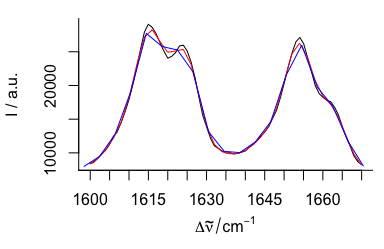
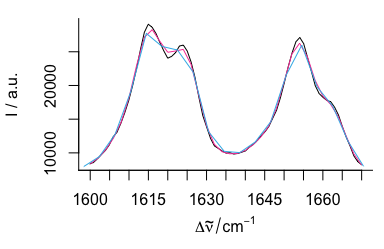
Built site for hyperSpec: 0.99-20200615@0fd74fa

diff --git a/vig/articles/hyperSpec.html b/vig/articles/hyperSpec.html
@@ -498,7 +498,8 @@ To modify a <code>hyperSpec</code> object, the corresponding functions are <code
 <p>The extraction function <code>[]</code> takes the spectra (rows) as the first argument (For detailed help: see <code class="sourceCode r">?<span class="st">"["</span></code>).
 It may be a vector giving the indices of the spectra to extract (select), a vector with negative indices indicating, which spectra should be deleted, or a vector of logical values.</p>
 <div class="sourceCode" id="cb7"><pre class="downlit">
-<span class="fu"><a href="../reference/plot-methods.html">plot</a></span>(<span class="kw">flu</span>, col = <span class="st">"green2"</span>)
+<span class="fu"><a href="https://rdrr.io/r/utils/data.html">data</a></span>(<span class="kw">CB7</span>) <span class="co"># load colorblind-friendly palette</span>
+<span class="fu"><a href="../reference/plot-methods.html">plot</a></span>(<span class="kw">flu</span>, col = <span class="kw">CB7</span>[<span class="fl">4</span>])
 <span class="fu"><a href="../reference/plot-methods.html">plot</a></span>(<span class="kw">flu</span>[<span class="fl">1</span><span class="op">:</span><span class="fl">3</span>], add = <span class="fl">TRUE</span>)
 </pre></div>
 <div class="figure" style="text-align: center">
@@ -508,7 +509,7 @@ Figure 3.1: An example with <code>[]</code> operator and positive indices.
 </p>
 </div>
 <div class="sourceCode" id="cb8"><pre class="downlit">
-<span class="fu"><a href="../reference/plot-methods.html">plot</a></span>(<span class="kw">flu</span>, col = <span class="st">"red"</span>)
+<span class="fu"><a href="../reference/plot-methods.html">plot</a></span>(<span class="kw">flu</span>, col = <span class="kw">CB7</span>[<span class="fl">4</span>])
 <span class="fu"><a href="../reference/plot-methods.html">plot</a></span>(<span class="kw">flu</span>[<span class="op">-</span><span class="fl">3</span>], add = <span class="fl">TRUE</span>)
 </pre></div>
 <div class="figure" style="text-align: center">
@@ -518,7 +519,7 @@ Figure 3.2: An example with <code>[]</code> operator and negative indices.
 </p>
 </div>
 <div class="sourceCode" id="cb9"><pre class="downlit">
-<span class="fu"><a href="../reference/plot-methods.html">plot</a></span>(<span class="kw">flu</span>, col = <span class="st">"gold"</span>)
+<span class="fu"><a href="../reference/plot-methods.html">plot</a></span>(<span class="kw">flu</span>, col = <span class="kw">CB7</span>[<span class="fl">4</span>])
 <span class="fu"><a href="../reference/plot-methods.html">plot</a></span>(<span class="kw">flu</span>[<span class="kw">flu</span><span class="op">$</span><span class="kw">c</span> <span class="op">&gt;</span> <span class="fl">0.2</span>], add = <span class="fl">TRUE</span>)
 </pre></div>
 <div class="figure" style="text-align: center">
@@ -1042,7 +1043,7 @@ Mean spectra and pooled covariance matrix can be calculated using <code class="s
 <span class="kw">rnd</span> <span class="op">&lt;-</span> <span class="fu"><a href="../reference/rmmvnorm.html">rmmvnorm</a></span>(<span class="fu"><a href="https://rdrr.io/r/base/rep.html">rep</a></span>(<span class="fl">10</span>, <span class="fl">3</span>), mean = <span class="kw">pcov</span><span class="op">$</span><span class="kw">mean</span>, sigma = <span class="kw">pcov</span><span class="op">$</span><span class="kw">COV</span>)
 </pre></div>
 <div class="sourceCode" id="cb54"><pre class="downlit">
-<span class="kw">cluster.cols</span> <span class="op">&lt;-</span> <span class="fu"><a href="https://rdrr.io/r/base/c.html">c</a></span>(<span class="st">"dark blue"</span>, <span class="st">"orange"</span>, <span class="st">"#C02020"</span>)
+<span class="kw">cluster.cols</span> <span class="op">&lt;-</span> <span class="kw">CB7</span>[<span class="fu"><a href="https://rdrr.io/r/base/c.html">c</a></span>(<span class="fl">2</span>, <span class="fl">7</span>, <span class="fl">4</span>)]
 <span class="fu"><a href="../reference/plot-methods.html">plot</a></span>(<span class="kw">rnd</span>, col = <span class="kw">cluster.cols</span>[<span class="kw">rnd</span><span class="op">$</span><span class="kw">.group</span>])
 </pre></div>
 <div class="figure" style="text-align: center">
@@ -1077,7 +1078,7 @@ Figure 4.1: Multivariate normally distributed random spectra generated with <cod
 </pre></div>
 <div class="sourceCode" id="cb56"><pre class="downlit">
 <span class="fu"><a href="../reference/plot-methods.html">plot</a></span>(<span class="kw">chondro</span>[<span class="fl">135</span>])
-<span class="fu"><a href="../reference/plot-methods.html">plot</a></span>(<span class="kw">tmp</span>[<span class="fl">135</span>, , ], add = <span class="fl">TRUE</span>, col = <span class="st">"red"</span>)
+<span class="fu"><a href="../reference/plot-methods.html">plot</a></span>(<span class="kw">tmp</span>[<span class="fl">135</span>, , ], add = <span class="fl">TRUE</span>, col = <span class="kw">CB7</span>[<span class="fl">4</span>])
 </pre></div>
 <div class="figure" style="text-align: center">
 <span id="fig:shift-wl"></span>
@@ -1102,7 +1103,7 @@ It is convenient to set it up as a function:</p>
 </pre></div>
 <div class="sourceCode" id="cb59"><pre class="downlit">
 <span class="fu"><a href="../reference/plot-methods.html">plot</a></span>(<span class="kw">chondro</span>[<span class="fl">135</span>])
-<span class="fu"><a href="../reference/plot-methods.html">plot</a></span>(<span class="kw">tmp</span>[<span class="fl">135</span>], add = <span class="fl">TRUE</span>, col = <span class="st">"red"</span>)
+<span class="fu"><a href="../reference/plot-methods.html">plot</a></span>(<span class="kw">tmp</span>[<span class="fl">135</span>], add = <span class="fl">TRUE</span>, col = <span class="kw">CB7</span>[<span class="fl">4</span>])
 </pre></div>
 <div class="figure" style="text-align: center">
 <span id="fig:shift-interp"></span>
@@ -1115,7 +1116,7 @@ Figure 5.2: Shifting the spectra along the wavelength axis: interpolation.
 <span class="kw">tmp</span> <span class="op">&lt;-</span> <span class="kw">chondro</span>[<span class="fl">135</span>, , <span class="fl">990</span> <span class="op">~</span> <span class="fl">1010</span>]
 <span class="fu"><a href="../reference/plot-methods.html">plot</a></span>(<span class="kw">tmp</span>, lines.args = <span class="fu"><a href="https://rdrr.io/r/base/list.html">list</a></span>(type = <span class="st">"b"</span>, pch = <span class="fl">19</span>, cex = <span class="fl">0.5</span>))
 <span class="fu"><a href="../reference/wl.html">wl</a></span>(<span class="kw">tmp</span>) <span class="op">&lt;-</span> <span class="fu"><a href="../reference/wl.html">wl</a></span>(<span class="kw">tmp</span>) <span class="op">-</span> <span class="fl">0.5</span>
-<span class="fu"><a href="../reference/plot-methods.html">plot</a></span>(<span class="kw">tmp</span>, lines.args = <span class="fu"><a href="https://rdrr.io/r/base/list.html">list</a></span>(type = <span class="st">"b"</span>, pch = <span class="fl">19</span>, cex = <span class="fl">0.5</span>), add = <span class="fl">TRUE</span>, col = <span class="st">"red"</span>)
+<span class="fu"><a href="../reference/plot-methods.html">plot</a></span>(<span class="kw">tmp</span>, lines.args = <span class="fu"><a href="https://rdrr.io/r/base/list.html">list</a></span>(type = <span class="st">"b"</span>, pch = <span class="fl">19</span>, cex = <span class="fl">0.5</span>), add = <span class="fl">TRUE</span>, col = <span class="kw">CB7</span>[<span class="fl">4</span>])
 
 <span class="kw">tmp</span> <span class="op">&lt;-</span> <span class="kw">chondro</span>[<span class="fl">135</span>]
 <span class="kw">tmp</span> <span class="op">&lt;-</span> <span class="fu"><a href="../reference/apply.html">apply</a></span>(<span class="kw">tmp</span>, <span class="fl">1</span>, <span class="fu">function</span>(<span class="kw">x</span>, <span class="kw">wl</span>, <span class="kw">shift</span>) {
@@ -1123,7 +1124,7 @@ Figure 5.2: Shifting the spectra along the wavelength axis: interpolation.
 },
 wl = <span class="fu"><a href="../reference/wl.html">wl</a></span>(<span class="kw">tmp</span>), shift = <span class="op">-</span><span class="fl">0.5</span>
 )
-<span class="fu"><a href="../reference/plot-methods.html">plot</a></span>(<span class="kw">tmp</span>, lines.args = <span class="fu"><a href="https://rdrr.io/r/base/list.html">list</a></span>(type = <span class="st">"b"</span>, pch = <span class="fl">19</span>, cex = <span class="fl">0.5</span>), add = <span class="fl">TRUE</span>, col = <span class="st">"blue"</span>)
+<span class="fu"><a href="../reference/plot-methods.html">plot</a></span>(<span class="kw">tmp</span>, lines.args = <span class="fu"><a href="https://rdrr.io/r/base/list.html">list</a></span>(type = <span class="st">"b"</span>, pch = <span class="fl">19</span>, cex = <span class="fl">0.5</span>), add = <span class="fl">TRUE</span>, col = <span class="kw">CB7</span>[<span class="fl">3</span>])
 </pre></div>
 <div class="figure" style="text-align: center">
 <span id="fig:shift-untsch"></span>
@@ -1246,7 +1247,7 @@ Class <code>hyperSpec</code>’s comparison operators return a logical matrix of
 <div class="sourceCode" id="cb68"><pre class="downlit">
 <span class="fu"><a href="../reference/plot-methods.html">plot</a></span>(<span class="kw">chondro</span>[<span class="op">!</span><span class="fu"><a href="../reference/apply.html">apply</a></span>(<span class="kw">OK</span>, <span class="fl">1</span>, <span class="kw">all</span>)])
 <span class="kw">i</span> <span class="op">&lt;-</span> <span class="fu"><a href="https://rdrr.io/r/base/which.html">which</a></span>(<span class="op">!</span><span class="kw">OK</span>, arr.ind = <span class="fl">TRUE</span>)
-<span class="fu"><a href="https://rdrr.io/r/graphics/points.html">points</a></span>(<span class="fu"><a href="../reference/wl.html">wl</a></span>(<span class="kw">chondro</span>)[<span class="kw">i</span>[, <span class="fl">2</span>]], <span class="kw">chondro</span>[[<span class="op">!</span><span class="kw">OK</span>]], pch = <span class="fl">19</span>, col = <span class="st">"red"</span>, cex = <span class="fl">0.5</span>)
+<span class="fu"><a href="https://rdrr.io/r/graphics/points.html">points</a></span>(<span class="fu"><a href="../reference/wl.html">wl</a></span>(<span class="kw">chondro</span>)[<span class="kw">i</span>[, <span class="fl">2</span>]], <span class="kw">chondro</span>[[<span class="op">!</span><span class="kw">OK</span>]], pch = <span class="fl">19</span>, col = <span class="kw">CB7</span>[<span class="fl">4</span>], cex = <span class="fl">0.5</span>)
 </pre></div>
 <div class="figure" style="text-align: center">
 <span id="fig:filter"></span>
@@ -1311,7 +1312,7 @@ Figure 5.5: Filtering data: mean <span class="math inline">\(\pm\)</span> sd fil
 
 <span class="kw">spc</span>[[<span class="kw">spc</span> <span class="op">&lt;</span> <span class="fl">1e-4</span>]] <span class="op">&lt;-</span> <span class="fl">NA</span>
 <span class="fu"><a href="../reference/plot-methods.html">plot</a></span>(<span class="fu"><a href="../reference/spc.NA.approx.html">spc.NA.approx</a></span>(<span class="kw">spc</span>),
-  add = <span class="fl">TRUE</span>, col = <span class="st">"blue"</span>,
+  add = <span class="fl">TRUE</span>, col = <span class="kw">CB7</span>[<span class="fl">4</span>],
   lines.args = <span class="fu"><a href="https://rdrr.io/r/base/list.html">list</a></span>(type = <span class="st">"b"</span>, pch = <span class="fl">19</span>, cex = <span class="fl">0.5</span>)
 )
 </pre></div>
@@ -1344,12 +1345,12 @@ Package <strong>hyperSpec</strong> provides two functions to do so: <code class=
 <div class="sourceCode" id="cb73"><pre class="downlit">
 <span class="fu"><a href="../reference/plot-methods.html">plot</a></span>(<span class="kw">paracetamol</span>, wl.range = <span class="fu"><a href="https://rdrr.io/r/base/c.html">c</a></span>(<span class="fl">300</span> <span class="op">~</span> <span class="fl">1800</span>, <span class="fl">2800</span> <span class="op">~</span> <span class="kw">max</span>), xoffset = <span class="fl">850</span>)
 <span class="kw">p</span> <span class="op">&lt;-</span> <span class="fu"><a href="../reference/spc.loess.html">spc.loess</a></span>(<span class="kw">paracetamol</span>, <span class="fu"><a href="https://rdrr.io/r/base/c.html">c</a></span>(<span class="fu"><a href="../reference/seq.hyperSpec.html">seq</a></span>(<span class="fl">300</span>, <span class="fl">1800</span>, <span class="fl">2</span>), <span class="fu"><a href="../reference/seq.hyperSpec.html">seq</a></span>(<span class="fl">2850</span>, <span class="fl">3150</span>, <span class="fl">2</span>)))
-<span class="fu"><a href="../reference/plot-methods.html">plot</a></span>(<span class="kw">p</span>, wl.range = <span class="fu"><a href="https://rdrr.io/r/base/c.html">c</a></span>(<span class="fl">300</span> <span class="op">~</span> <span class="fl">1800</span>, <span class="fl">2800</span> <span class="op">~</span> <span class="kw">max</span>), xoffset = <span class="fl">850</span>, col = <span class="st">"red"</span>, add = <span class="fl">TRUE</span>)
+<span class="fu"><a href="../reference/plot-methods.html">plot</a></span>(<span class="kw">p</span>, wl.range = <span class="fu"><a href="https://rdrr.io/r/base/c.html">c</a></span>(<span class="fl">300</span> <span class="op">~</span> <span class="fl">1800</span>, <span class="fl">2800</span> <span class="op">~</span> <span class="kw">max</span>), xoffset = <span class="fl">850</span>, col = <span class="kw">CB7</span>[<span class="fl">4</span>], add = <span class="fl">TRUE</span>)
 
 <span class="kw">b</span> <span class="op">&lt;-</span> <span class="fu"><a href="../reference/spc.bin.html">spc.bin</a></span>(<span class="kw">paracetamol</span>, <span class="fl">4</span>)
 <span class="fu"><a href="../reference/plot-methods.html">plot</a></span>(<span class="kw">b</span>,
   wl.range = <span class="fu"><a href="https://rdrr.io/r/base/c.html">c</a></span>(<span class="fl">300</span> <span class="op">~</span> <span class="fl">1800</span>, <span class="fl">2800</span> <span class="op">~</span> <span class="kw">max</span>), xoffset = <span class="fl">850</span>,
-  lines.args = <span class="fu"><a href="https://rdrr.io/r/base/list.html">list</a></span>(pch = <span class="fl">20</span>, cex = <span class="fl">.3</span>, type = <span class="st">"p"</span>), col = <span class="st">"blue"</span>, add = <span class="fl">TRUE</span>
+  lines.args = <span class="fu"><a href="https://rdrr.io/r/base/list.html">list</a></span>(pch = <span class="fl">20</span>, cex = <span class="fl">.3</span>, type = <span class="st">"p"</span>), col = <span class="kw">CB7</span>[<span class="fl">3</span>], add = <span class="fl">TRUE</span>
 )
 </pre></div>
 <div class="figure" style="text-align: center">
@@ -1360,8 +1361,8 @@ Figure 5.7: Smoothing interpolation by <code class="sourceCode r"><span class="k
 </div>
 <div class="sourceCode" id="cb74"><pre class="downlit">
 <span class="fu"><a href="../reference/plot-methods.html">plot</a></span>(<span class="kw">paracetamol</span>[, , <span class="fl">1600</span> <span class="op">~</span> <span class="fl">1670</span>])
-<span class="fu"><a href="../reference/plot-methods.html">plot</a></span>(<span class="kw">p</span>[, , <span class="fl">1600</span> <span class="op">~</span> <span class="fl">1670</span>], col = <span class="st">"red"</span>, add = <span class="fl">TRUE</span>)
-<span class="fu"><a href="../reference/plot-methods.html">plot</a></span>(<span class="kw">b</span>[, , <span class="fl">1600</span> <span class="op">~</span> <span class="fl">1670</span>], col = <span class="st">"blue"</span>, add = <span class="fl">TRUE</span>)
+<span class="fu"><a href="../reference/plot-methods.html">plot</a></span>(<span class="kw">p</span>[, , <span class="fl">1600</span> <span class="op">~</span> <span class="fl">1670</span>], col = <span class="kw">CB7</span>[<span class="fl">4</span>], add = <span class="fl">TRUE</span>)
+<span class="fu"><a href="../reference/plot-methods.html">plot</a></span>(<span class="kw">b</span>[, , <span class="fl">1600</span> <span class="op">~</span> <span class="fl">1670</span>], col = <span class="kw">CB7</span>[<span class="fl">3</span>], add = <span class="fl">TRUE</span>)
 </pre></div>
 <div class="figure" style="text-align: center">
 <span id="fig:loess-kl"></span>
@@ -1438,7 +1439,7 @@ The result is a <code class="sourceCode r">baseline</code> object, but can easil
 <span class="kw">baseline</span> <span class="op">&lt;-</span> <span class="kw">corrected</span>
 <span class="kw">baseline</span>[[]] <span class="op">&lt;-</span> <span class="fu"><a href="https://rdrr.io/pkg/baseline/man/getBaseline.html">getBaseline</a></span>(<span class="kw">bl</span>)
 <span class="fu"><a href="../reference/plot-methods.html">plot</a></span>(<span class="kw">hyperSpec</span>::<span class="kw"><a href="../reference/chondro.html">chondro</a></span>[<span class="fl">1</span>], plot.args = <span class="fu"><a href="https://rdrr.io/r/base/list.html">list</a></span>(ylim = <span class="fu"><a href="https://rdrr.io/r/base/range.html">range</a></span>(<span class="kw">hyperSpec</span>::<span class="kw"><a href="../reference/chondro.html">chondro</a></span>[<span class="fl">1</span>], <span class="fl">0</span>)))
-<span class="fu"><a href="../reference/plot-methods.html">plot</a></span>(<span class="kw">baseline</span>, add = <span class="fl">TRUE</span>, col = <span class="st">"red"</span>)
+<span class="fu"><a href="../reference/plot-methods.html">plot</a></span>(<span class="kw">baseline</span>, add = <span class="fl">TRUE</span>, col = <span class="kw">CB7</span>[<span class="fl">4</span>])
 </pre></div>
 <div class="figure" style="text-align: center">
 <span id="fig:bl-baseline"></span>
@@ -1728,7 +1729,7 @@ Figure 6.1: The first three loadings.
 ), space = <span class="st">"Lab"</span>)
 </pre></div>
 <div class="sourceCode" id="cb106"><pre class="downlit">
-<span class="fu"><a href="../reference/plotmap.html">plotmap</a></span>(<span class="kw">scores</span>[, , <span class="fl">3</span>], col.regions = <span class="fu">div_palette</span>(<span class="fl">20</span>))
+<span class="fu"><a href="../reference/plotmap.html">plotmap</a></span>(<span class="kw">scores</span>[, , <span class="fl">3</span>], col.regions = <span class="fu">diverging_hcl</span>(<span class="fl">20</span>, palette = <span class="st">"Blue-Red2"</span>))
 </pre></div>
 <div class="figure" style="text-align: center">
 <span id="fig:pca-score"></span>
@@ -1922,9 +1923,10 @@ To keep all spectra replacing missing parts by <code class="sourceCode r"><span 
 <span class="co">#&gt; [1] 846</span>
 </pre></div>
 <div class="sourceCode" id="cb124"><pre class="downlit">
+<span class="kw">matcols</span> <span class="op">&lt;-</span> <span class="fu">sequential_hcl</span>(<span class="fl">20</span>, palette = <span class="st">"viridis"</span>)
 <span class="fu">levelplot</span>(<span class="kw">spc</span> <span class="op">~</span> <span class="kw">x</span> <span class="op">*</span> <span class="kw">y</span> <span class="op">|</span> <span class="fu"><a href="https://rdrr.io/r/base/factor.html">as.factor</a></span>(<span class="fu"><a href="https://rdrr.io/r/base/paste.html">paste</a></span>(<span class="kw">.wavelength</span>, <span class="st">"  1/cm"</span>)),
   <span class="kw">chondro.merged</span>[, , <span class="fu"><a href="https://rdrr.io/r/base/c.html">c</a></span>(<span class="fl">1000</span>, <span class="fl">1650</span>)],
-  aspect = <span class="st">"iso"</span>, col.regions = <span class="fu"><a href="../reference/matlab.palette.html">matlab.palette</a></span>()
+  aspect = <span class="st">"iso"</span>, col.regions = <span class="kw">matcols</span>
 )
 </pre></div>
 <div class="figure" style="text-align: center">
@@ -1933,14 +1935,8 @@ To keep all spectra replacing missing parts by <code class="sourceCode r"><span 
 Figure 7.1: For both spectral ranges some spectra are missing.
 </p>
 </div>
-<!-- ```{r merge-mat echo=FALSE, results='hide'} -->
-<!-- png("hyperspec-fig-merged.png", width = 500, height = 425, res = 100) -->
-<!-- plot(chondro.merged[1:100], "mat") -->
-<!-- dev.off() -->
-<!-- rm(chondro) -->
-<!-- ``` -->
 <div class="sourceCode" id="cb125"><pre class="downlit">
-<span class="fu"><a href="../reference/plot-methods.html">plot</a></span>(<span class="kw">chondro.merged</span>[<span class="fl">1</span><span class="op">:</span><span class="fl">100</span>], <span class="st">"mat"</span>)
+<span class="fu"><a href="../reference/plot-methods.html">plot</a></span>(<span class="kw">chondro.merged</span>[<span class="fl">1</span><span class="op">:</span><span class="fl">100</span>], <span class="st">"mat"</span>, col = <span class="kw">matcols</span>)
 </pre></div>
 <div class="figure" style="text-align: center">
 <span id="fig:merge-mat"></span>
@@ -2283,7 +2279,7 @@ Please refer to the documentation of the respective functions for details about 
   }
 })
 <span class="co">#&gt;    user  system elapsed </span>
-<span class="co">#&gt;   0.055   0.004   0.061</span>
+<span class="co">#&gt;   0.051   0.002   0.053</span>
 </pre></div>
 <p>Calculations that involve a lot of subsetting (i.e., extracting or changing the spectra matrix or extra data) can be sped up considerably if the required parts of the <code>hyperSpec</code> object are extracted beforehand.
 This is somewhat similar to model fitting in <code>R</code> in general: many model fitting functions in <code>R</code> are much faster if the formula interface is avoided and the appropriate <code class="sourceCode r">data.frame</code>s or matrices are handed over directly.</p>
@@ -2298,7 +2294,7 @@ This is somewhat similar to model fitting in <code>R</code> in general: many mod
   <span class="kw">tmp</span>[[]] <span class="op">&lt;-</span> <span class="kw">tmp.matrix</span>
 })
 <span class="co">#&gt;    user  system elapsed </span>
-<span class="co">#&gt;   0.011   0.000   0.012</span>
+<span class="co">#&gt;    0.01    0.00    0.01</span>
 </pre></div>
 <p>In general, it is not recommended to work with variables that are more than approximately a third of the available RAM in size. Particularly the import of raw spectroscopic data can consume large amounts of memory.
 At certain points, package <strong>hyperSpec</strong> provides switches that allow working with data sets that are actually close to this memory limit.</p>
@@ -2332,7 +2328,7 @@ The memory consumption of <code class="sourceCode r"><span class="kw">read.txt.R
 <span class="co">#&gt;  backports      1.1.8         2020-06-17 [1] CRAN (R 4.0.0)</span>
 <span class="co">#&gt;  callr          3.4.3         2020-03-28 [1] CRAN (R 4.0.0)</span>
 <span class="co">#&gt;  cli            2.0.2         2020-02-28 [1] CRAN (R 4.0.0)</span>
-<span class="co">#&gt;  colorspace     1.4-1         2019-03-18 [1] CRAN (R 4.0.0)</span>
+<span class="co">#&gt;  colorspace   * 1.4-1         2019-03-18 [1] CRAN (R 4.0.0)</span>
 <span class="co">#&gt;  crayon         1.3.4         2017-09-16 [1] CRAN (R 4.0.0)</span>
 <span class="co">#&gt;  desc           1.2.0         2018-05-01 [1] CRAN (R 4.0.0)</span>
 <span class="co">#&gt;  digest         0.6.25        2020-02-23 [1] CRAN (R 4.0.0)</span>

diff --git a/vig/reference/textio.html b/vig/reference/textio.html
@@ -572,7 +572,7 @@ of <code><a href='https://rdrr.io/pkg/R.matlab/man/R.matlab-package.html'>R.matl
 #&gt; 
 #&gt; attr(,"header")
 #&gt; attr(,"header")$description
-#&gt; [1] "MATLAB 5.0 MAT-file, Platform: unix, Software: R v4.0.2, Created on: Thu Jul  2 16:34:26 2020                               "
+#&gt; [1] "MATLAB 5.0 MAT-file, Platform: unix, Software: R v4.0.2, Created on: Thu Jul  2 20:59:43 2020                               "
 #&gt; 
 #&gt; attr(,"header")$version
 #&gt; [1] "5"
@@ -604,7 +604,7 @@ of <code><a href='https://rdrr.io/pkg/R.matlab/man/R.matlab-package.html'>R.matl
 #&gt; data:  (6 rows x 3 columns)
 #&gt;    1. spc: I / a.u [matrix, array181] 27.15000 66.80133 ... 294.6495 
 #&gt;    2. c: c/(mg/l) [numeric] 0.05 0.10 ... 0.3 
-#&gt;    3. filename: filename [character] /var/folders/24/8k48jl6d249_n_qfxwsl6xvm0000gn/T//RtmphAC4AS/flu.txt /var/folders/24/8k48jl6d249_n_qfxwsl6xvm0000gn/T//RtmphAC4AS/flu.txt ... /var/folders/24/8k48jl6d249_n_qfxwsl6xvm0000gn/T//RtmphAC4AS/flu.txt </div><div class='input'>
+#&gt;    3. filename: filename [character] /var/folders/24/8k48jl6d249_n_qfxwsl6xvm0000gn/T//Rtmp7TdAnS/flu.txt /var/folders/24/8k48jl6d249_n_qfxwsl6xvm0000gn/T//Rtmp7TdAnS/flu.txt ... /var/folders/24/8k48jl6d249_n_qfxwsl6xvm0000gn/T//Rtmp7TdAnS/flu.txt </div><div class='input'>
 <span class='fu'>write.txt.wide</span>(<span class='kw'>flu</span>,
   file = <span class='fu'><a href='https://rdrr.io/r/base/paste.html'>paste0</a></span>(<span class='fu'><a href='https://rdrr.io/r/base/tempfile.html'>tempdir</a></span>(), <span class='st'>"/flu.txt"</span>),
   cols = <span class='fu'><a href='https://rdrr.io/r/base/c.html'>c</a></span>(<span class='st'>"c"</span>, <span class='st'>"spc"</span>),

diff --git a/vig/articles/baseline.html b/vig/articles/baseline.html
@@ -288,10 +288,10 @@ Thus one should also consider requiring more support points than the default val
 <div class="sourceCode" id="cb5"><pre class="downlit">
 <span class="fu"><a href="https://rdrr.io/r/base/system.time.html">system.time</a></span>(<span class="fu"><a href="../reference/spc.fit.poly.html">spc.fit.poly.below</a></span>(<span class="kw">chondro</span>, <span class="kw">NULL</span>, npts.min = <span class="fl">20</span>))
 <span class="co">#&gt;    user  system elapsed </span>
-<span class="co">#&gt;   0.884   0.164   1.053</span>
+<span class="co">#&gt;   1.045   0.045   1.094</span>
 <span class="fu"><a href="https://rdrr.io/r/base/system.time.html">system.time</a></span>(<span class="fu"><a href="../reference/spc.fit.poly.html">spc.fit.poly.below</a></span>(<span class="kw">chondro</span>[, , <span class="fu"><a href="https://rdrr.io/r/base/c.html">c</a></span>(<span class="kw">min</span> <span class="op">~</span> <span class="fl">700</span>, <span class="fl">1700</span> <span class="op">~</span> <span class="kw">max</span>)], <span class="kw">NULL</span>, npts.min = <span class="fl">20</span>))
 <span class="co">#&gt;    user  system elapsed </span>
-<span class="co">#&gt;   0.442   0.020   0.462</span>
+<span class="co">#&gt;   0.533   0.017   0.553</span>
 </pre></div>
 <p>The choice of the spectral range in <code class="sourceCode r">fit.to</code> influences the resulting baselines to a certain extent, as becomes clear from figure <a href="#fig:spectralrange">2.3</a>.</p>
 </div>
